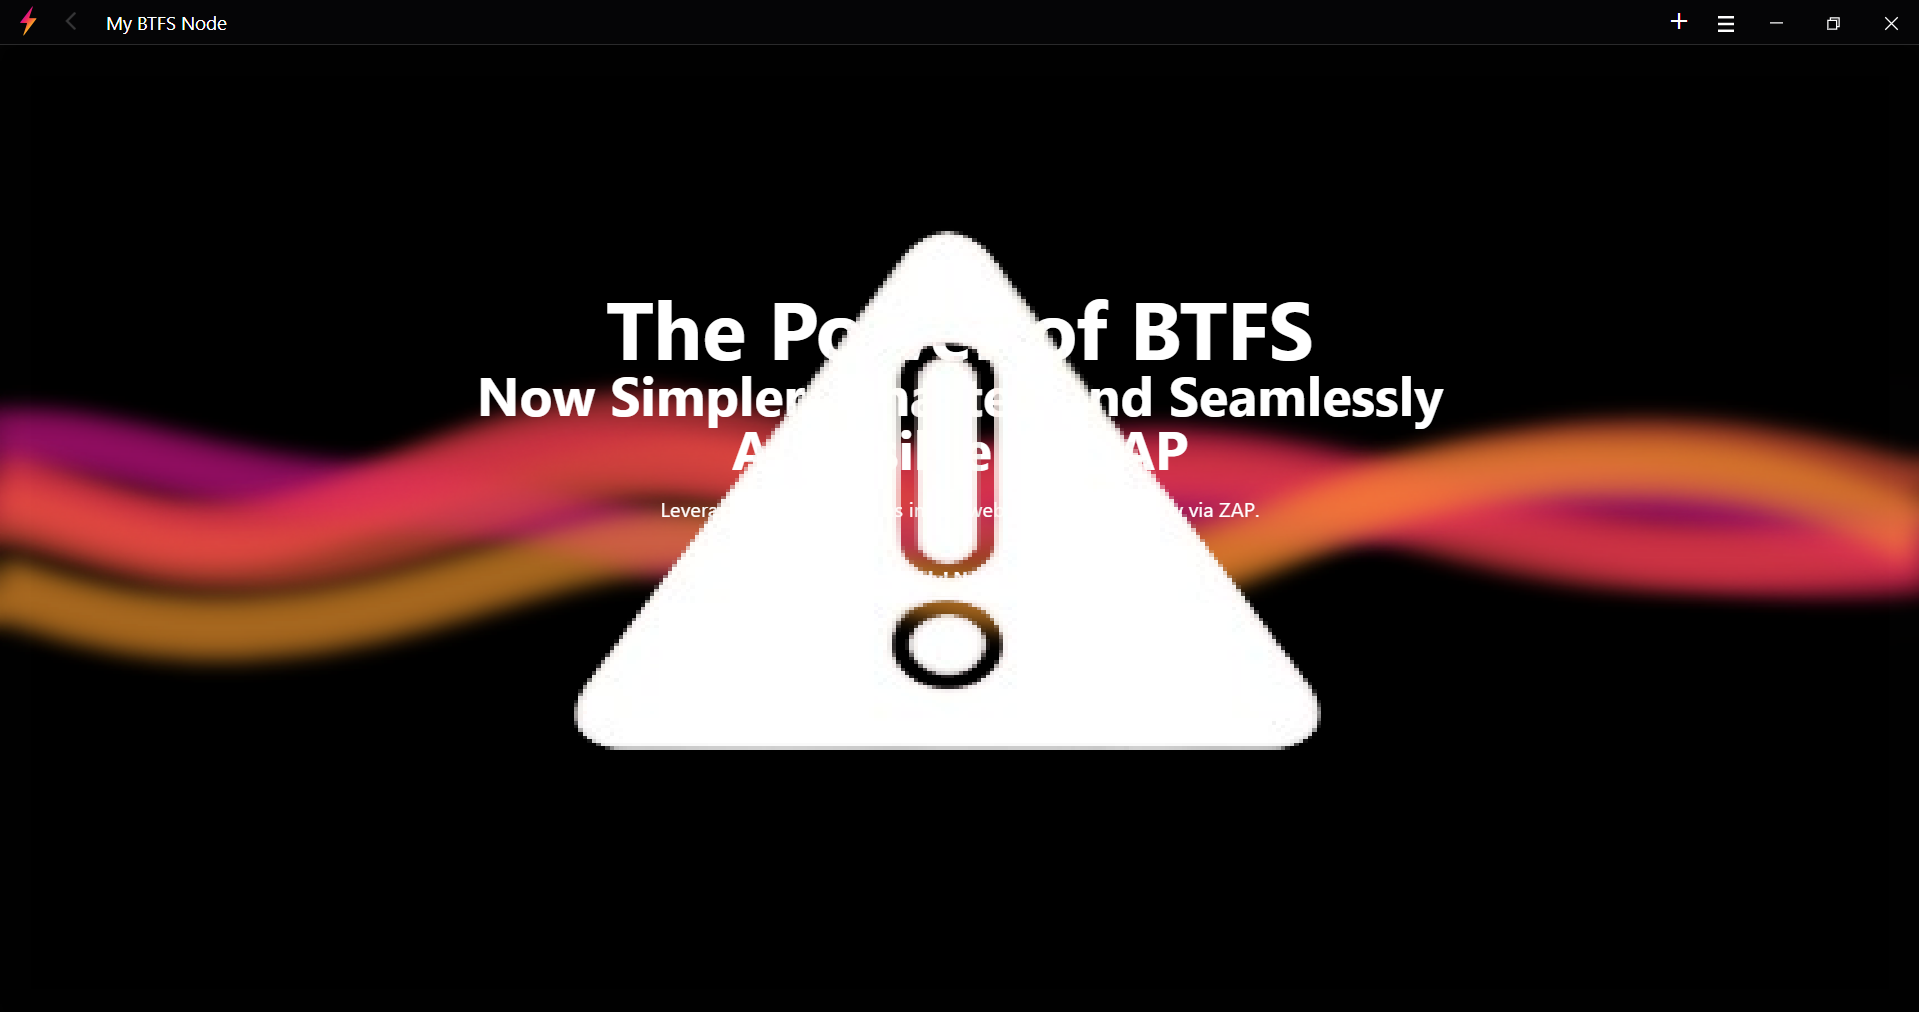
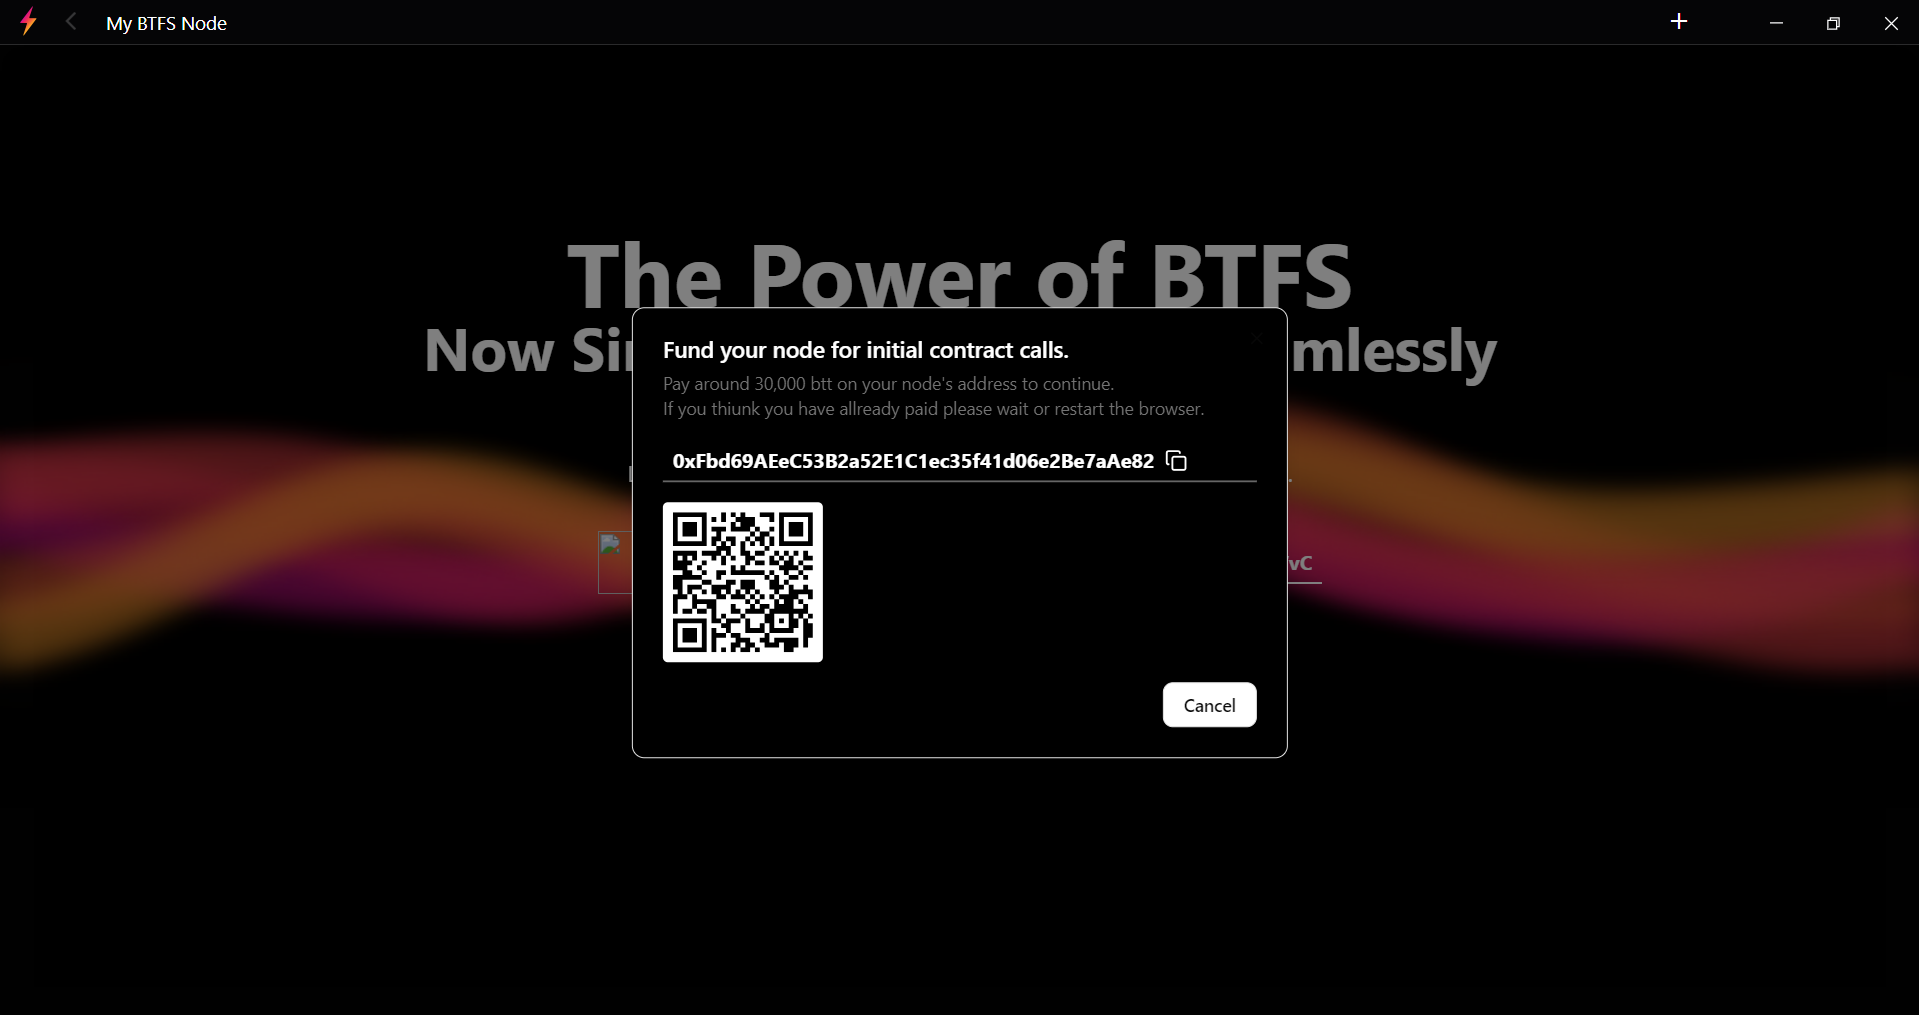
commiting final

Changed region(s): [[0.0, 0.2144, 1.0, 0.7658]]

diff --git a/src/usage.tsx b/src/usage.tsx
@@ -5,8 +5,8 @@ import logoBTFS from '@/assets/logobtfs.png'; // Assuming you have a BTFS logo i
 import btfsfund from '@/assets/btfsfund.png'; // Assuming you have a BTFS fund image in your assets
 // import btfslogin from '@/assets/btfslogin.png'; // Assuming you have a BTFS login image in your assets
 import btfsok from '@/assets/btfsok.png'; // Assuming you have a BTFS ok image in your assets
-// import btfssignup from '@/assets/btfssignup.png'; // Assuming you have a BTFS signup image in your assets
-// import btfswaiting from '@/assets/btfswaiting.png'; // Assuming you have a BTFS waiting image in your assets
+import btfssignup from '@/assets/btfssignup.png'; // Assuming you have a BTFS signup image in your assets
+import btfslogin from '@/assets/btfslogin.png'; // Assuming you have a BTFS waiting image in your assets
 import dashboard from '@/assets/dashboard.png'; // Assuming you have a dashboard image in your assets
 import usage from '@/assets/usage.png'; // Assuming you have a usage image in your assets
 import permissions from '@/assets/permissions.png'; // Assuming you have a permissions image in your assets
@@ -53,7 +53,6 @@ const UsageGuide = () => {
             </div>
         </div>
 
-        {/* 
         <div className="h-auto md:flex bg-white/30 backdrop-blur mb-10 rounded-l-md">
             <div className="text-black w-full py-3 px-2">
                 <h1 className="text-2xl font-extrabold mb-2">Setup a password!!</h1>
@@ -64,12 +63,12 @@ const UsageGuide = () => {
         </div>
         
         <div className="h-auto md:flex bg-white/30 backdrop-blur mb-10 rounded-r-md">
-            <img src={btfsfund} alt="01 image" className="w-[100%] md:w-[70%]" />
+            <img src={btfslogin} alt="01 image" className="w-[100%] md:w-[70%]" />
             <div className="text-black w-full py-3 px-2">
                 <h1 className="text-2xl font-extrabold mb-2 text-mono">Login</h1>
                 <p className="text-black/90 text-xl text-start font-mono mb-2">Enter the pasword to login into the node.</p>
             </div>
-        </div> */}
+        </div> 
 
         {/* btfs wait */}
         <div className="h-auto md:flex bg-white/30 backdrop-blur mb-10 rounded-l-md">

diff --git a/index.html b/index.html
@@ -2,7 +2,7 @@
 <html lang="en">
   <head>
     <meta charset="UTF-8" />
-    <link rel="icon" type="image/svg+xml" href="/vite.svg" />
+    <link rel="icon" type="image/svg+xml" href="/zap.png" />
     <meta name="viewport" content="width=device-width, initial-scale=1.0" />
     <title>Usage</title>
   </head>

diff --git a/vite.config.ts b/vite.config.ts
@@ -11,5 +11,5 @@ export default defineConfig({
       "@": path.resolve(__dirname, "./src"),
     },
   },
-  base: './zaptour',
+  base: '/zaptour',
 })
